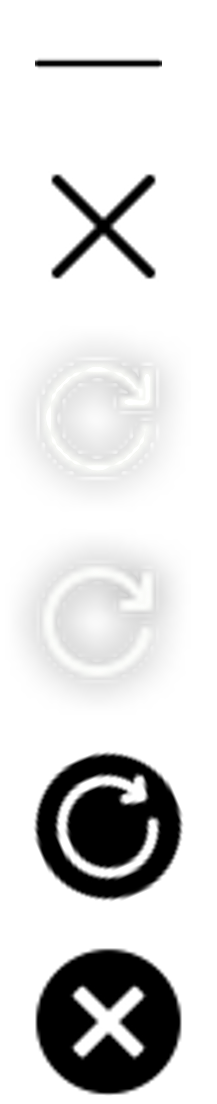
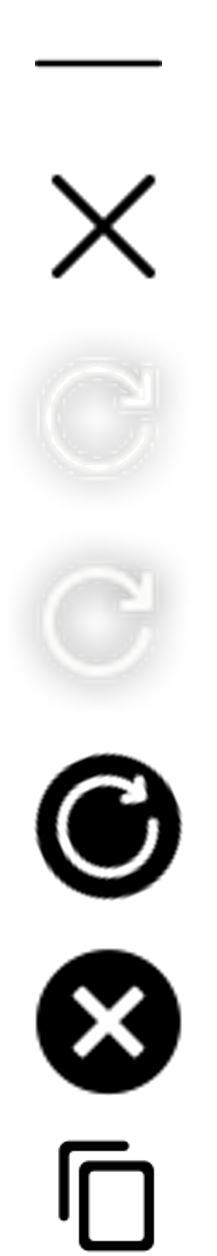
update website assistant - show source & copy code

diff --git a/docs/assets/js/assistant.js b/docs/assets/js/assistant.js
@@ -1,10 +1,10 @@
 document.addEventListener('DOMContentLoaded', function() {
     var script = document.createElement('script');
-    script.src = 'https://cdn.jsdelivr.net/npm/showdown/dist/showdown.min.js';
+    script.src = 'https://cdn.jsdelivr.net/npm/showdown/dist/showdown.min.js'
     document.head.appendChild(script);
     
     var script = document.createElement('script');
-    script.src = 'https://docs.lazyllm.ai/en/latest/assets/js/jigsaw.js';
+    script.src = 'assets/js/jigsaw.js'
     document.head.appendChild(script);
     // 对话助手入口
     var floatingIcon = document.createElement('div');
@@ -12,11 +12,12 @@ document.addEventListener('DOMContentLoaded', function() {
     floatingIcon.innerHTML = '<img src="https://docs.lazyllm.ai/en/latest/assets/logo.png" alt="icon">';
     document.body.appendChild(floatingIcon);
     // 对话框
-    var placeholdervalue = 'What is LazyLLM ?';
+    var placeholdervalue = 'What is LazyLLM ?'
     var dialogBox = document.createElement('div');
     dialogBox.id = 'dialog-box';
-    dialogBox.style = 'display: none';
+    dialogBox.style = 'display: none'
     dialogBox.innerHTML = `
+    <div class="dialog-container">
         <div id="dialog" class="dialog"> 
             <div id="reset-dialog" class="reset"></div>
             <div id="close-dialog-box" class="close"></div>
@@ -26,19 +27,20 @@ document.addEventListener('DOMContentLoaded', function() {
         <div class="input-container"> 
             <input type="text" id="user-input" placeholder="What is LazyLLM ?"> 
             <button id="send-message">Send</button> 
-        </div>`;
+        </div>
+    </div>`
 
     document.body.appendChild(dialogBox);
     // 人机验证框
     var captchaBox = document.createElement('div');
     captchaBox.id = 'captcha-box';
-    captchaBox.style = "display: none";
+    captchaBox.style = "display: none"
     captchaBox.innerHTML = `
     <div id="close-captcha" class="close-captcha"></div>
     <div id="captcha-container" class="container">
         <div id="captcha"></div>
     </div>
-    `;
+    `
     document.body.appendChild(captchaBox);
 
     const sendMessageButton = document.getElementById('send-message');
@@ -48,10 +50,13 @@ document.addEventListener('DOMContentLoaded', function() {
     const messages = document.getElementById('messages');
     const closeCaptchaButton = document.getElementById('close-captcha');
 
-    let userQuery = '';
+    var userQuery = '';
     var isChecked = false;
+    var isWaiting = false;
+    var firstHello = true;
+    var showSource = true;
     var converter;
-
+    
     function setIsCheckedT() {
         isChecked = true;
     }
@@ -60,14 +65,22 @@ document.addEventListener('DOMContentLoaded', function() {
         isChecked = false;
     }
 
+    function setMessageState(state) {
+        isWaiting = state;
+        sendMessageButton.disabled = state;
+    }
+    
     function popHelloMessage() {
-        let hello = document.createElement('div');
-        hello.innerHTML = `
-                <div class="message received">  
-                    <img src="https://docs.lazyllm.ai/en/latest/assets/logo.png" class="avatar"> 
-                    <p>Hello, how can I assist you today ?</p> 
-                </div> `
-        messages.appendChild(hello);
+        if (!isWaiting && firstHello){
+            let hello = document.createElement('div');
+            hello.innerHTML = `
+                    <div class="message received">  
+                        <img src="https://docs.lazyllm.ai/en/latest/assets/logo.png" class="avatar"> 
+                        <p>Hello, how can I assist you today ?</p> 
+                    </div> `
+            messages.appendChild(hello)
+            firstHello = false;
+        }
     }
 
     function cleanToken() {
@@ -75,20 +88,31 @@ document.addEventListener('DOMContentLoaded', function() {
         setIsCheckedF();
     }
 
+    function handleClickOutside(event) {
+        if (event.target === dialogBox) {
+            dialogBox.style.display = 'none';
+            // 移除点击事件监听器
+            window.removeEventListener('click', handleClickOutside);
+        } 
+    }
+
     function switchDialobBoxDisplay() {
         dialogBox.style.display = dialogBox.style.display==='none' ? 'block' : 'none';
         if (dialogBox.style.display === 'none') {
             captchaBox.style.display = 'none';
+            window.removeEventListener('click', handleClickOutside);
         } else {
+            window.addEventListener('click', handleClickOutside);
             setTimeout(popHelloMessage, 1000);
         }
     }
 
     function resetDialog(){
         messages.innerHTML = '';
-        sendMessageButton.disabled = false;
-        setTimeout(popHelloMessage, 1000);
+        setMessageState(false);
         cleanToken();
+        firstHello = true;
+        setTimeout(popHelloMessage, 1000);
     }
 
     async function Verify() {
@@ -97,7 +121,7 @@ document.addEventListener('DOMContentLoaded', function() {
         } else {
             let seed = Math.ceil(Math.random()*10000);
             try {
-                const response = await fetch('https://api.lazyllm.ai/authorize', {
+                const response = await fetch('http://lazyllm.top/authorize', {
                     method: 'POST',
                     headers: {
                         'Content-Type': 'application/json',
@@ -135,6 +159,7 @@ document.addEventListener('DOMContentLoaded', function() {
 
     function closeCaptcha() {
         captchaBox.style.display = 'none';
+        setMessageState(false);
         userInput.value = userQuery;
         messages.removeChild(messages.lastChild);
     }
@@ -146,13 +171,18 @@ document.addEventListener('DOMContentLoaded', function() {
         botMessage.innerHTML = `<img src="assets/logo.png" alt="机器人头像" class="avatar">
                                 <div class="content">
                                     <div id="loader"></div>
-                                </div>`;
+                                </div>
+                                `;
+        botMessage.children[1].addEventListener('click', function(e) {
+            console.log(e);
+            navigator.clipboard.writeText(e.target.innerText);
+        });
         messages.appendChild(botMessage);
         messages.scrollTop = messages.scrollHeight; // 滚动到最新消息
 
         try {
             // 发送请求到后端接口
-            const response = await fetch('https://api.lazyllm.ai/chat', {
+            const response = await fetch('http://lazyllm.top/chat', {
                 method: 'POST',
                 headers: {
                     'Content-Type': 'application/json',
@@ -162,33 +192,36 @@ document.addEventListener('DOMContentLoaded', function() {
 
             // 处理响应
             const data = await response.json();
+            converter = new showdown.Converter();
             if (data.errmsg == 200){
                 botMessage.children[1].innerHTML = converter.makeHtml(data.reply);
-            } else if (data.errmsg == 101){
-                botMessage.children[1].innerHTML = converter.makeHtml("未能获取回复");
+                if (showSource){
+                    var source_box = document.createElement('div');
+                    source_box.innerHTML = converter.makeHtml(data.sources);
+                    botMessage.children[1].appendChild(source_box);
+                }
+            } else if (data.errmsg == 102 || data.errmsg==103){
+                botMessage.children[1].innerHTML = converter.makeHtml(data.reply);
+            } else {
+                botMessage.children[1].innerHTML = converter.makeHtml("未能获取回复，请稍后再试");
                 cleanToken();
                 closeCaptcha();
-            } else {
-                botMessage.children[1].innerHTML = converter.makeHtml("未能获取回复");
-                botMessage.children[1].innerHTML = converter.makeHtml(data.reply);
             }
-                
-            userQuery = '';
-            sendMessageButton.disabled = false;
-            // 显示加载状态或发送请求到后端接口
         } catch (error) {
             botMessage.children[1].innerHTML = converter.makeHtml('请求失败');
         }
-
+        userQuery = '';
+        setMessageState(false);
         messages.scrollTop = messages.scrollHeight; // 滚动到最新消息
     }
     
     function sendMessage() {
-        const text = userInput.value.trim();
-        if (!text) {
-            userInput.value = placeholdervalue;
+        if (isWaiting){
+            return;
         }
-        if (text) {
+        const text = userInput.value.trim();
+        if (!text) { userInput.value = placeholdervalue; }
+        else {
             const userMessage = document.createElement('div');
             userMessage.classList.add('message');
             userMessage.classList.add('sent');
@@ -201,7 +234,8 @@ document.addEventListener('DOMContentLoaded', function() {
             // 清空输入框
             userQuery = text;
             userInput.value = '';
-            sendMessageButton.disabled = true;
+            
+            setMessageState(true);
 
             if (!isChecked){
                 showCaptcha();
@@ -221,4 +255,5 @@ document.addEventListener('DOMContentLoaded', function() {
             sendMessage();
         }
     });
+
 });

diff --git a/docs/assets/css/assistant_style.css b/docs/assets/css/assistant_style.css
@@ -22,7 +22,14 @@
 }
 
 #dialog-box {
-    display: none;
+    position: fixed;
+    width: 100%;
+    height: 100%;
+    background: rgba(0, 0, 0, 0.2);
+    z-index: 1000;
+}
+
+.dialog-container {
     position: fixed;
     bottom: 50%;
     left: 50%;
@@ -35,7 +42,7 @@
     z-index: 1000;
 }
 
-#dialog-box h3 {
+.dialog-container h3 {
     margin-top: 0;
 }
 
@@ -57,8 +64,8 @@
     height: 24px;
     width: 24px;
     cursor: pointer;
-    background: url(../icon_dialog.png) 0 -95px;
-    background-size: 26px 142px;
+    background: url(../ico.png) 0 -93px;
+    background-size: 28px 159px;
 }
 
 .close {
@@ -69,13 +76,14 @@
     height: 24px;
     width: 24px;
     cursor: pointer;
-    background: url(../icon_dialog.png) 0 -118px;
-    background-size: 24px 139px;
+    background: url(../ico.png) 0 -118px;
+    background-size: 28px 159px;
 }
 
 .messages {
     height: 500px;
     overflow-y: auto;
+    /* border: 1px solid #ddd; */
     padding: 10px;
     margin-bottom: 10px;
     background-color: rgb(249, 250, 251);
@@ -97,6 +105,7 @@
     border-radius: 10px;
     line-height: 1.4;
     color: #000;
+    font-size: 15px;
 }
 
 .message.received p {
@@ -170,26 +179,60 @@
     font-family: "Microsoft YaHei", arial, sans-serif;
     color: #444444;
     line-height: 1.4;
+    pointer-events: none;
 }
 
 .content pre {
+    position: relative; 
     margin: 0 10px;
     padding: 10px;
     overflow: auto;
-    background: #595959;
-    color: #fff;
+    background: #eee;
+    pointer-events: none;
     code {
-        background: #595959;
         margin: 0;
-        padding: 0
+        padding: 0;
+        font-family: initial;
+    }
+    code::after{
+        content: '';
+        position: absolute;
+        top: 10px;
+        right: 10px;
+        padding: 0.5em;
+        height: 24px;
+        width: 24px;
+        background: url(../ico.png) 0 -140px;
+        background-size: 28px 159px;
+        pointer-events: auto;
+        cursor: pointer;
+        opacity: 0.2;
+    }
+    code::after:hover{
+        opacity: 0.6;
     }
 }
 
 .content code {
     margin: 0 5px;
     padding: 0 5px;
-    background: rgb(223 223 223);
+    background: rgb(237 237 237);
     border-radius: 5%;
+}
+
+.content a {
+    padding: 5px 10px;
+    margin: 10px 10px 0 0;
+    float: left;
+    border: solid 1px #b4b4b4;
+    border-radius: 5px;
+    pointer-events: auto;
+}
+
+.content a:hover {
+    cursor: pointer;
+    background-color: #eee;
+    border: solid 1px #bebebe;
 }
 
 #loader {
@@ -345,7 +388,7 @@
     right: 11px;
     width: 15px;
     height: 15px;
-    background: url(../icon_slider.png) 0 -38px;
+    background: url(../slider_icon.png) 0 -38px;
     background-size: 34px 471px;
 }
 
@@ -355,7 +398,7 @@
     left: 13px;
     width: 14px;
     height: 12px;
-    background: url(../icon_slider.png) 0 -25px;
+    background: url(../slider_icon.png) 0 -25px;
     background-size: 34px 471px;
 }
 
@@ -366,6 +409,6 @@
     width: 34px;
     height: 34px;
     cursor: pointer;
-    background: url(../icon_slider.png) 0 -400px;
+    background: url(../slider_icon.png) 0 -400px;
     background-size: 34px 471px;
 }
